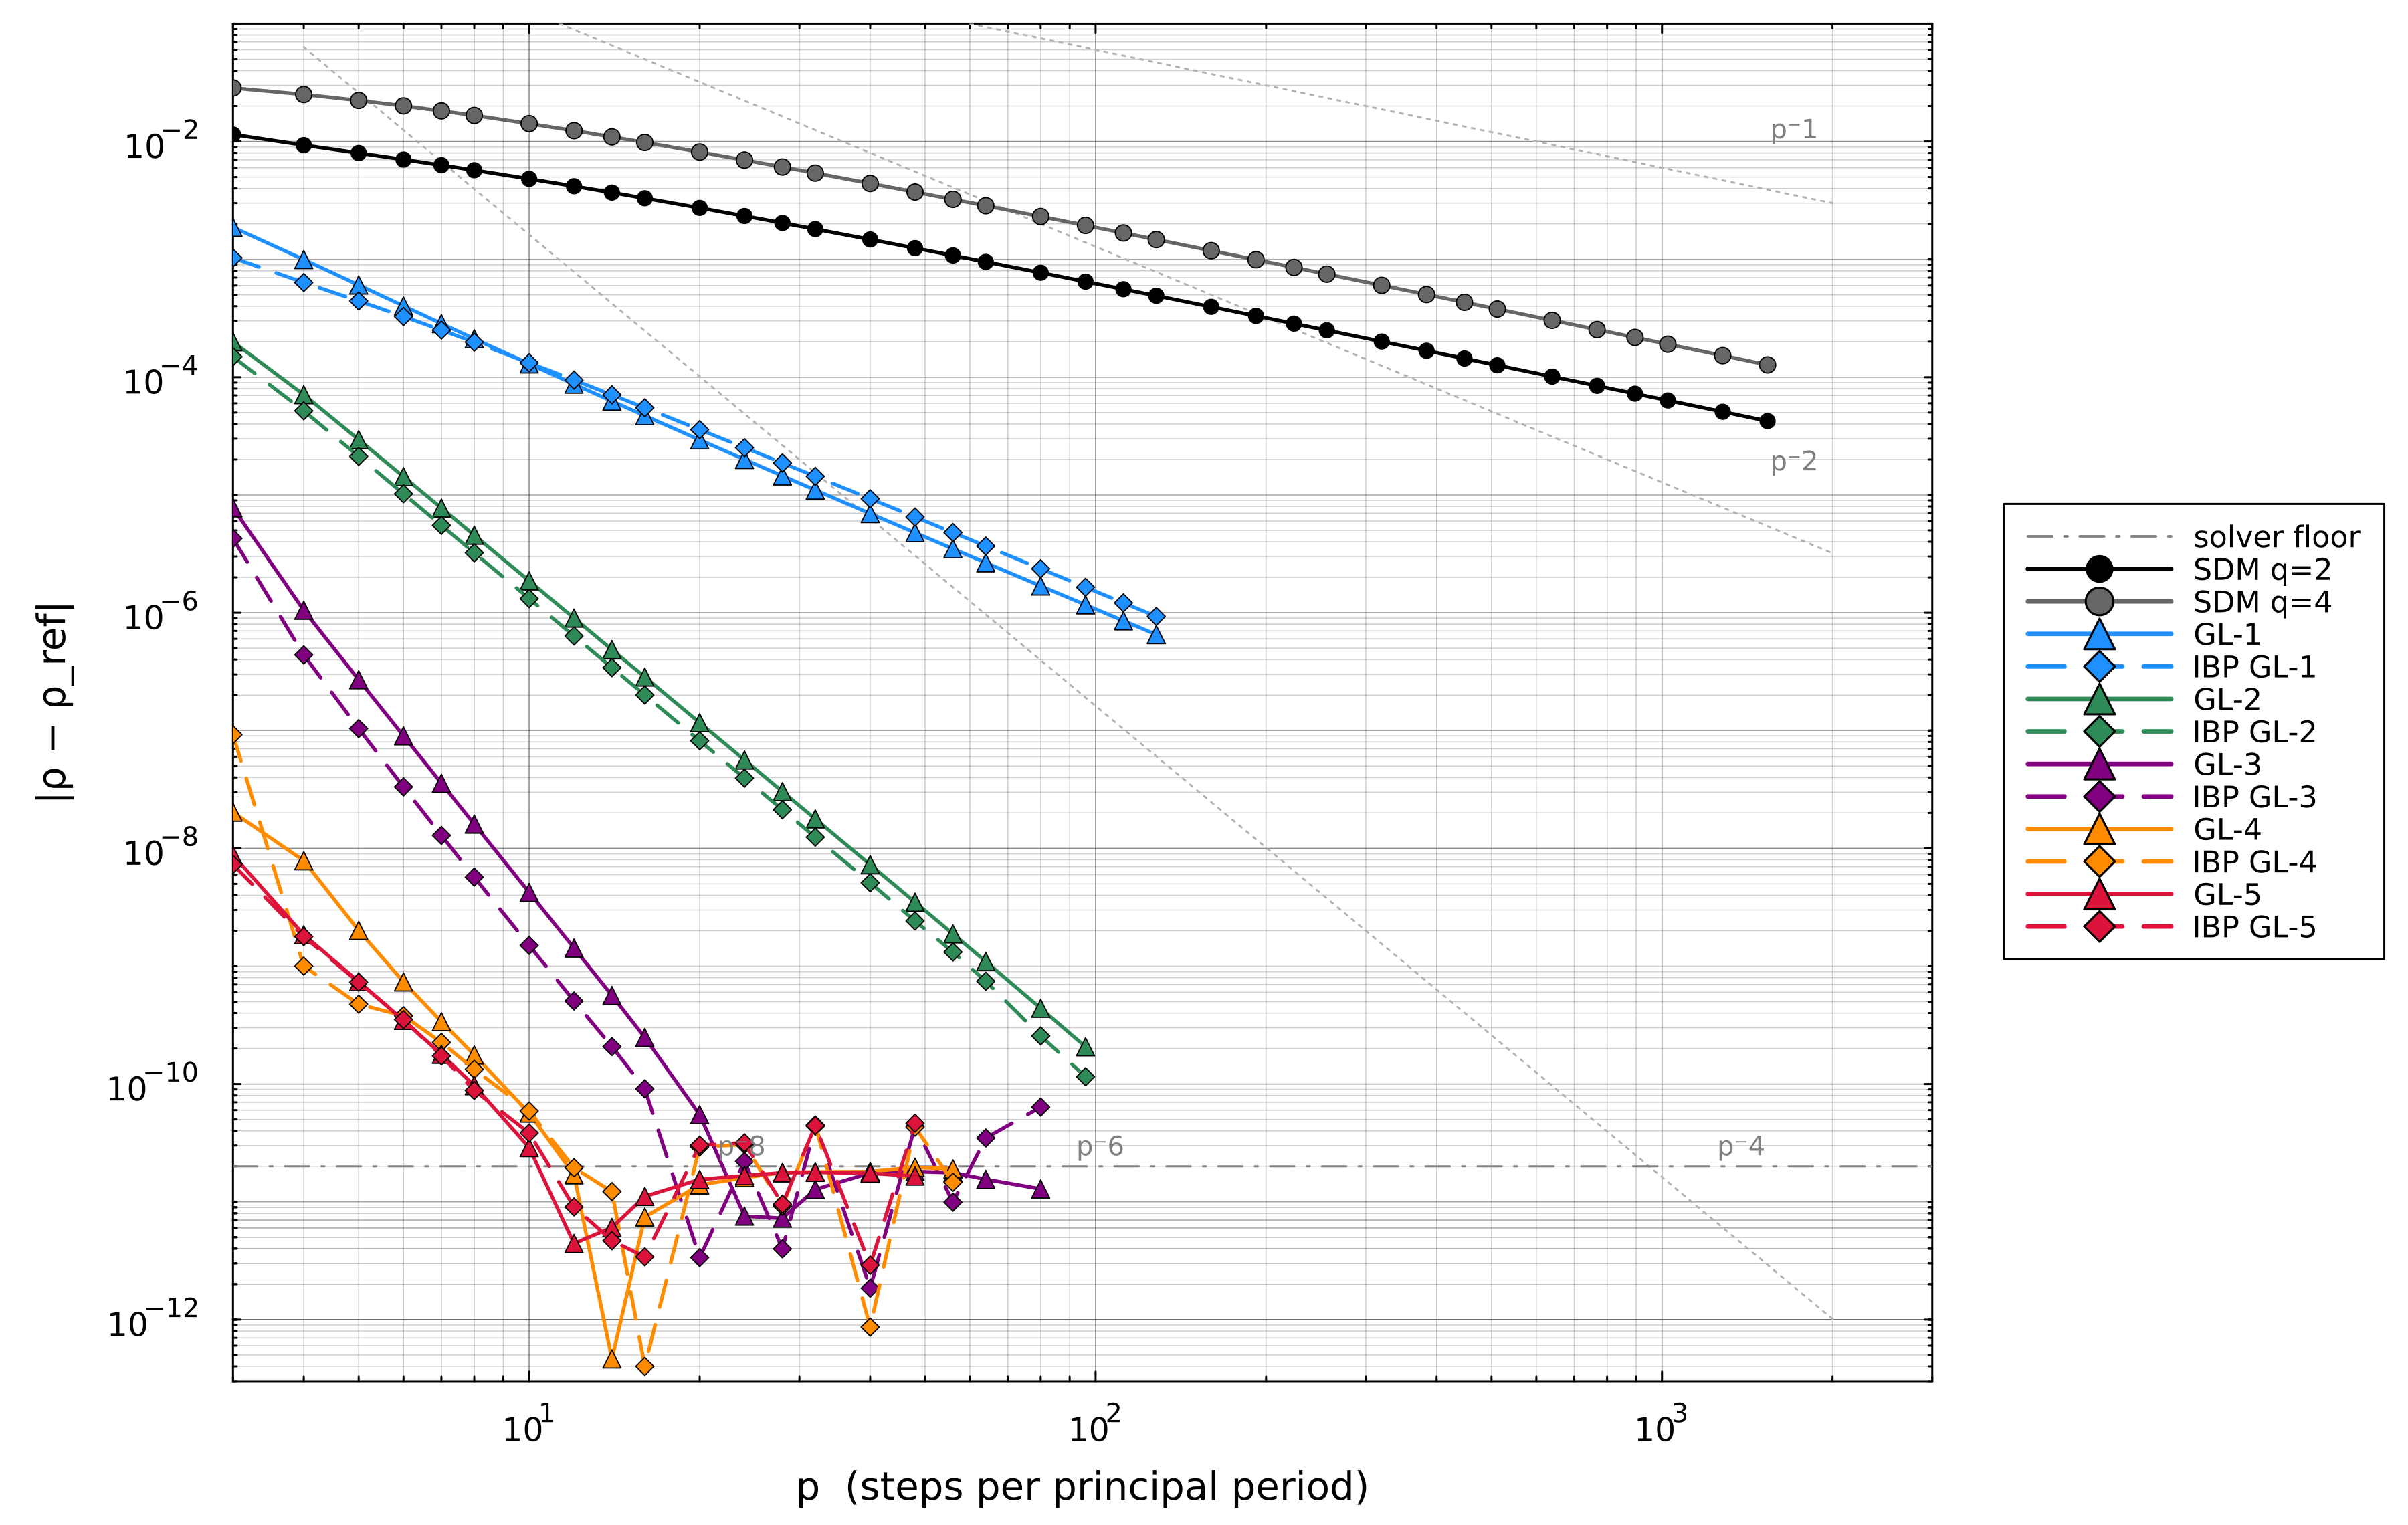
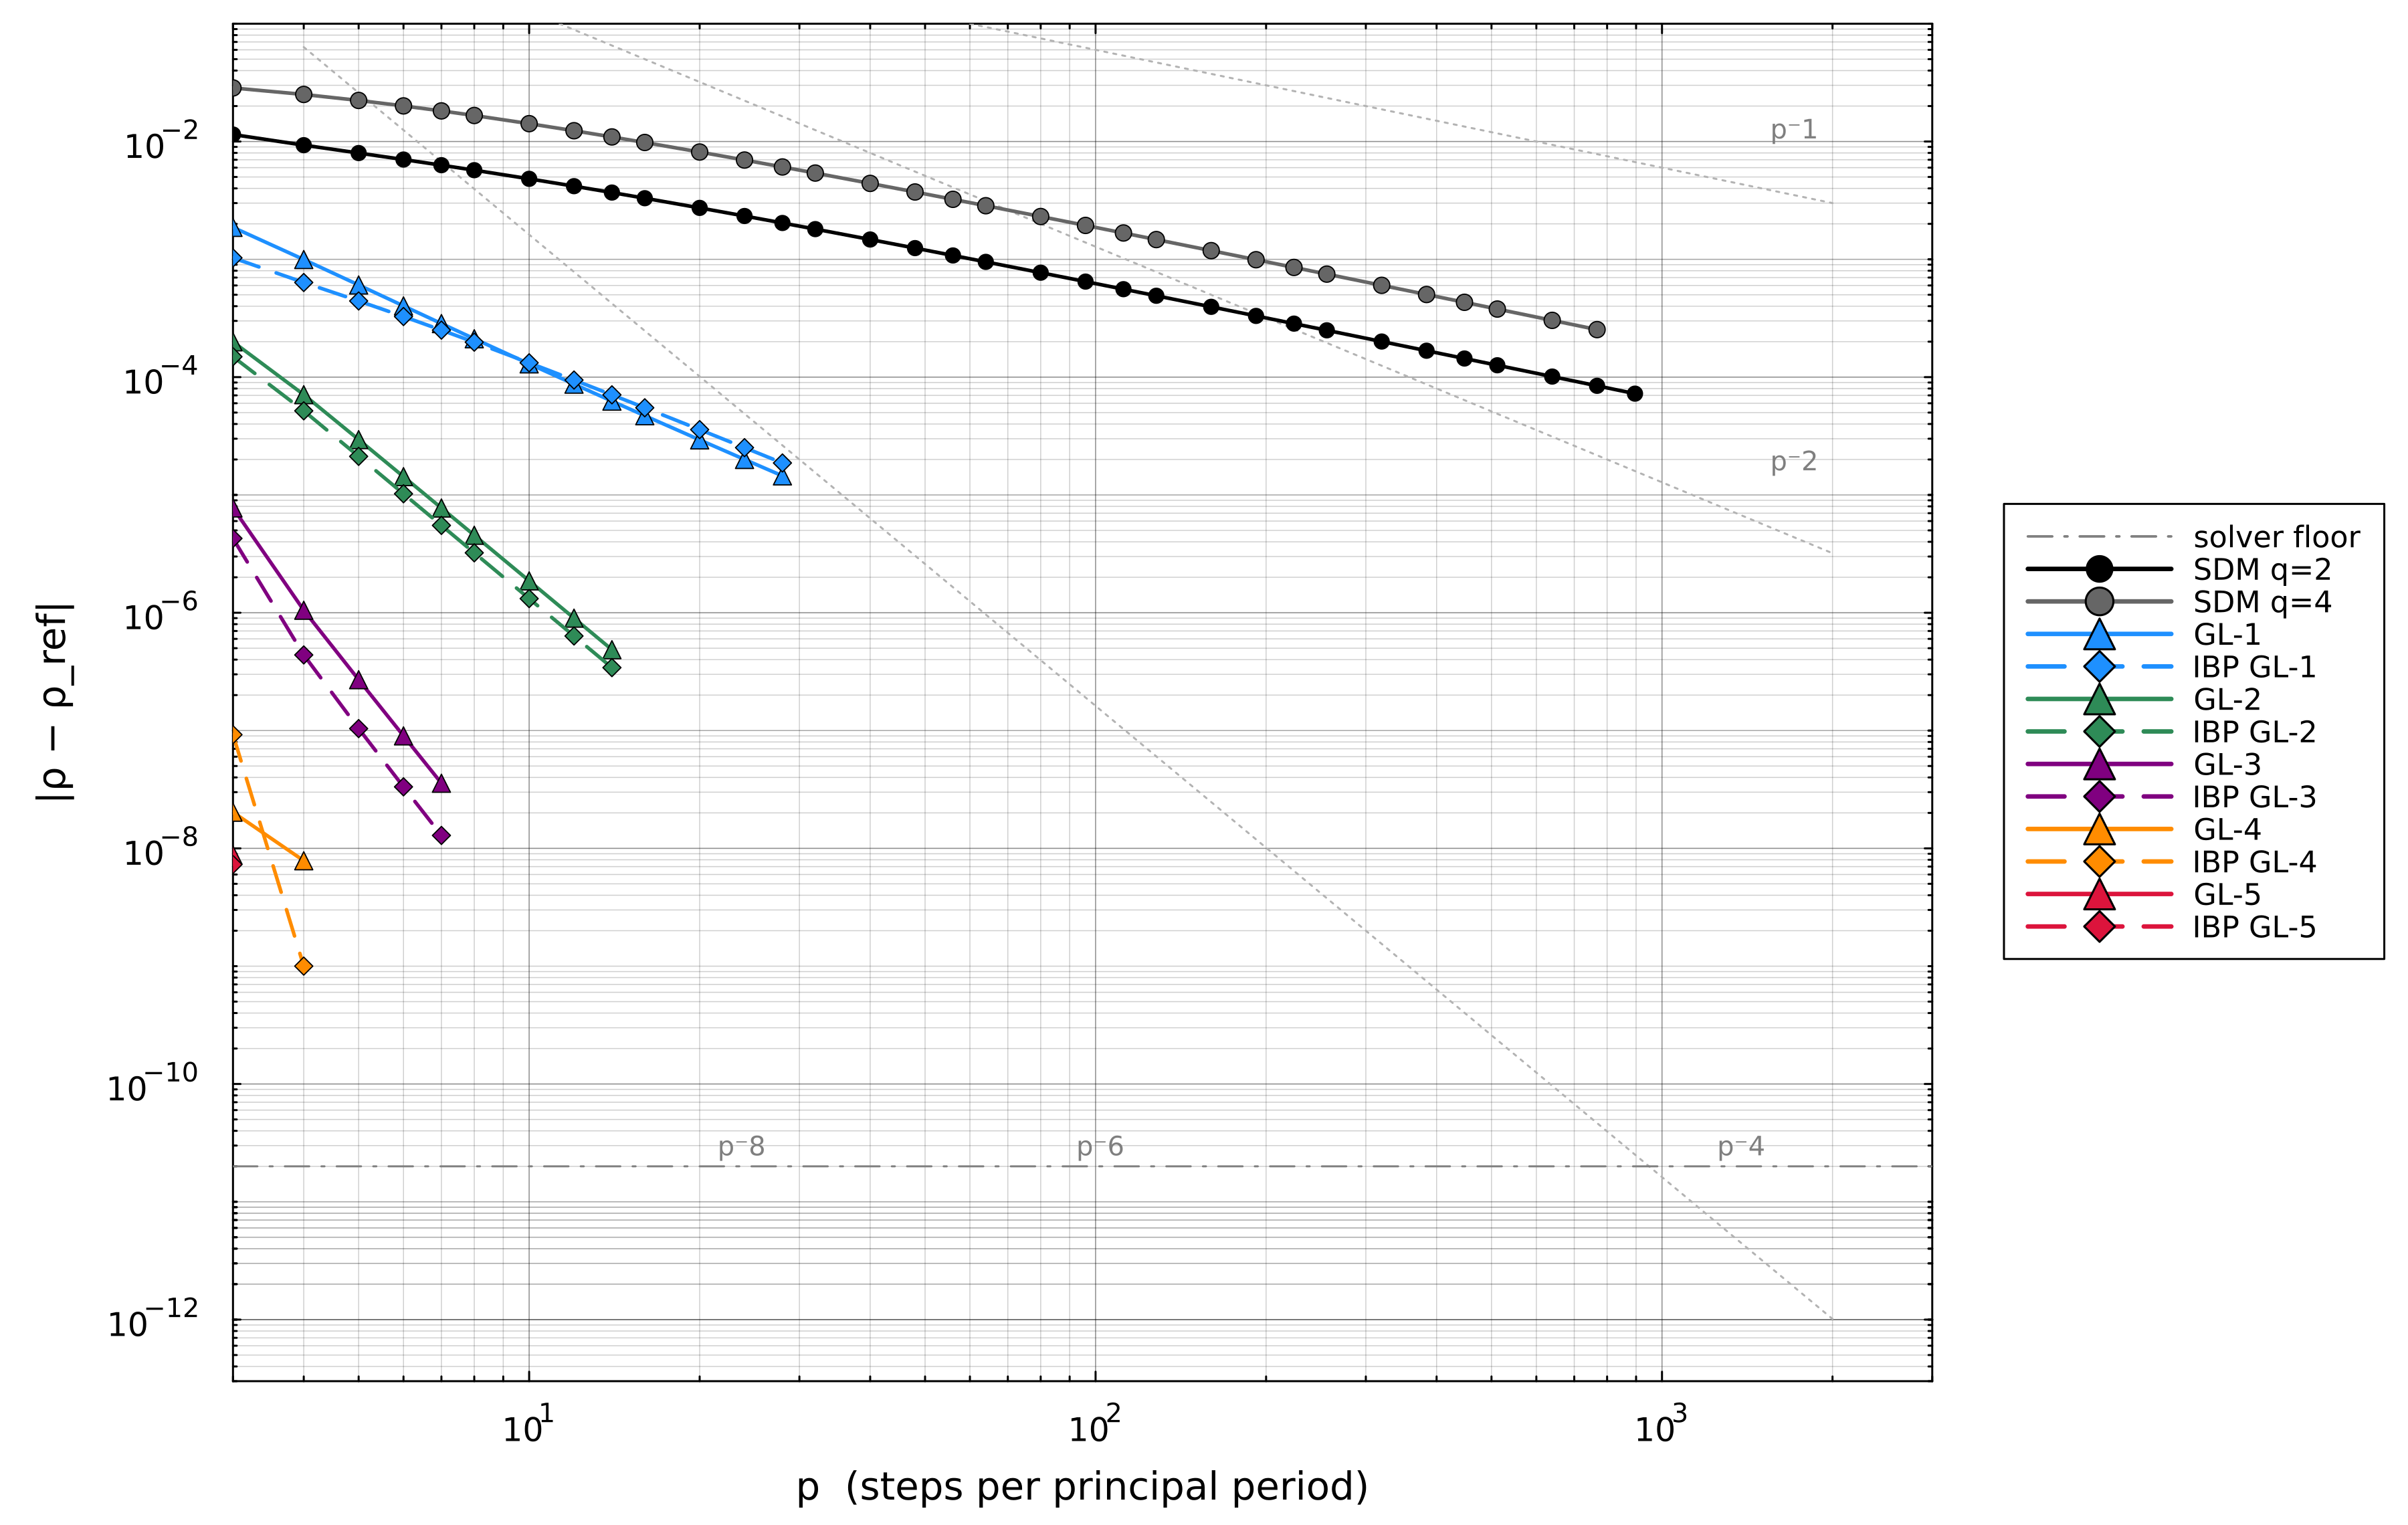
paper: re-time all CPU figures/tables with the round-2 solver (clean BenchmarkTools, to 1 s)
Work-precision / timing figures (grand_triple, grand_orders_pub, grand_stored):
regenerated with all 12 methods (SDM q=2/4, GL1-5 direct + IBP), BenchmarkTools
minima instead of @user (removes the timing jitter), and a ~1 s CPU cap per
method — grand_triple's CPU-time axis now reflects the round-2 solver. Every
accuracy value is bit-identical, so the measured slopes are unchanged.

tab:kron_scaling: factored solves re-timed from the round-2 factored_vs_dense.csv
(1.42→0.19, 3.34→1.13, 2.14→1.78, 8.48→6.43, 37.1→27.3, 218.6→208.7 s).

tab:ssv_cost: the three MF layers re-timed on 56 threads with the round-2 solver
(variance color map 2400→1673 s; SSV rho(H) 1751→652 s; SSV Var 1616→946 s; point
counts unchanged). Deterministic SD (LR) layers kept — that solver is untouched by
round-2 and cs_det reproduces (4193 pts / 36 s vs the table's 39 s).

wp_ultra caption: MF at p=192 now 0.045 s / 39 MB (was 0.30 s / 61 MB), so the
explicit-product advantage grows to 8.5e3 in time and 1.0e4 in allocation (was
1.3e3 / 6.3e3); at p=1024 the step recursion is 507 s vs 1.3 s for MF.

Benchmark-environment note: Julia 1.11 -> 1.12.6 (the machine of this re-timing).
Recompiled PDF; both cost tables still fit via \resizebox. gpu_chain still blocked
on a working GPU.

diff --git a/journal_paper/main_MFSSD.tex b/journal_paper/main_MFSSD.tex
@@ -239,19 +239,19 @@ The factored form \eqref{eq:factored_apply} and the pre-contracted tensor \eqref
 
 \begin{table}[ht!]
 \centering
-\caption{Measured wall-clock times of the second-moment spectral-radius computation for the periodic, delayed, stochastically excited oscillator chain ($\tau = T/2$, so the delay spans $r = p/2$ steps; the circular buffer of the implementation retains the $r{+}1$ history blocks plus one write slot, hence $D = \frac12 d(r{+}2)\big(d(r{+}2){+}1\big)$; $p$ = steps per period; It\^o-isometry quadrature $K=20$). ``Dense'' = classical pre-contracted operator (coefficient assembly + Krylov solve); ``factored'' = Kronecker-factored operator (assembly negligible). Agreement of $\rho(\mathcal{H})$ between the two forms is $\le 5\times10^{-15}$ wherever both run. (Xeon Gold 6154, single-threaded solve, Julia 1.11.)}
+\caption{Measured wall-clock times of the second-moment spectral-radius computation for the periodic, delayed, stochastically excited oscillator chain ($\tau = T/2$, so the delay spans $r = p/2$ steps; the circular buffer of the implementation retains the $r{+}1$ history blocks plus one write slot, hence $D = \frac12 d(r{+}2)\big(d(r{+}2){+}1\big)$; $p$ = steps per period; It\^o-isometry quadrature $K=20$). ``Dense'' = classical pre-contracted operator (coefficient assembly + Krylov solve); ``factored'' = Kronecker-factored operator (assembly negligible). Agreement of $\rho(\mathcal{H})$ between the two forms is $\le 5\times10^{-15}$ wherever both run. (Xeon Gold 6154, single-threaded solve, Julia 1.12.6.)}
 \label{tab:kron_scaling}
 \resizebox{\textwidth}{!}{%
 \begin{tabular}{rrrrrr}
 \toprule
 DOF & $d$ & $p$ & $D=\dim \operatorname{vech} \mathbf{M}$ & dense (build+solve) [s] & factored solve [s] \\
 \midrule
-2   & 4   & 256 & $1.4\times10^{5}$ & $0.34 + 0.62$ & $1.42$ \\
-4   & 8   & 256 & $5.4\times10^{5}$ & $6.04 + 2.60$ & $3.34$ \\
-10  & 20  & 64  & $2.3\times10^{5}$ & --- & $2.14$ \\
-20  & 40  & 64  & $9.3\times10^{5}$ & --- & $8.48$ \\
-50  & 100 & 32  & $1.6\times10^{6}$ & --- & $37.1$ \\
-100 & 200 & 24  & $3.9\times10^{6}$ & --- & $218.6$ \\
+2   & 4   & 256 & $1.4\times10^{5}$ & $0.62 + 0.20$ & $0.19$ \\
+4   & 8   & 256 & $5.4\times10^{5}$ & $6.51 + 0.97$ & $1.13$ \\
+10  & 20  & 64  & $2.3\times10^{5}$ & --- & $1.78$ \\
+20  & 40  & 64  & $9.3\times10^{5}$ & --- & $6.43$ \\
+50  & 100 & 32  & $1.6\times10^{6}$ & --- & $27.3$ \\
+100 & 200 & 24  & $3.9\times10^{6}$ & --- & $208.7$ \\
 \bottomrule
 \end{tabular}%
 }
@@ -332,7 +332,7 @@ i.e.\ the multiplicative noise perturbs the full restoring force with relative i
 \end{figure}
 
 \subsection{Work-Precision and Memory Scaling}
-The scaling claim of Section \ref{sec:mf_algo} is verified directly by evaluating the \emph{same} discrete operator along both routes: the classical path assembles the explicit period product of Eq.~\eqref{eq:period_product} (sparse single-step factors, explicitly multiplied into a densifying accumulator) and calls a sparse eigensolver on the result, while the MF path evaluates only operator actions inside the Krylov iteration. Figure~\ref{fig:wp_ultra} reports wall-clock time, memory, and accuracy on the fully time-periodic stochastic delayed Mathieu benchmark (all coefficients $T$-periodic, present and delayed multiplicative noise; $q=2$; single-threaded, one BLAS thread; timings are minima over repeated runs after JIT warm-up; all CPU results in this paper were obtained on a dual-socket Intel Xeon Gold 6154 workstation ($2\times18$ cores, $3.0\,\mathrm{GHz}$, $192\,\mathrm{GB}$ RAM), Julia 1.11, KrylovKit with Krylov dimension 15; single-core unless a thread count is stated). The memory metric is the \emph{cumulative solver allocation} reported by the runtime --- a robust, reproducible proxy that upper-bounds the peak working set; the peak footprint itself scales as $\mathcal{O}(p^4)$ for the explicit product (one densifying $D\times D$ accumulator) versus $\mathcal{O}(p^2)$ for MF. Panel (c) confirms that the two routes are algebraically identical --- the error curves coincide point-by-point --- so the comparison isolates pure implementation cost. The classical route follows the predicted $\mathcal{O}(p^4)$ growth in time (the cumulative allocation grows one power faster, $\mathcal{O}(p^5)$, since $p$ products of $\mathcal{O}(p^4)$ objects are formed): at $p = 192$ it requires $384\,\mathrm{s}$ and allocates $386\,\mathrm{GB}$ cumulatively, against $0.30\,\mathrm{s}$ and $61\,\mathrm{MB}$ for the multiplication-free route --- a measured factor of $1.3\times10^{3}$ in time and $6.3\times10^{3}$ in allocation --- and becomes infeasible shortly above this resolution. The MF route continues along its $\mathcal{O}(p^2)$ trend to $p = 2048$ (and to $p = 4096$ in the GPU experiments of Appendix~\ref{app:gpu}) on the same machine. Figure~\ref{fig:wp_ultra} also includes the natural \emph{intermediate} classical formulation --- the sparse single-step recursion applied $p$ times per operator action, with the covariance copied at each step, which avoids the explicit product without any of the new machinery --- whose $\mathcal{O}(p^3)$ per-application cost is confirmed by the data: at $p = 1024$ it takes $470\,\mathrm{s}$ against $15\,\mathrm{s}$ for MF, an advantage of one power of $p$ that keeps growing with resolution. The Arnoldi eigensolve (KrylovKit, Krylov dimension 15, relative tolerance $10^{-12}$, no restart needed) converges within a single Krylov factorization --- $15$ operator applications --- for \emph{every} $p$ and every method in the sweep (identical operators, identical spectra), so the per-application cost governs the end-to-end scaling in all cases. The dominant eigenvalue of $\mathcal{H}$ is real and positive in all our experiments, as expected for a map that preserves the cone of positive-semidefinite matrices; no preconditioning is used anywhere in this paper.
+The scaling claim of Section \ref{sec:mf_algo} is verified directly by evaluating the \emph{same} discrete operator along both routes: the classical path assembles the explicit period product of Eq.~\eqref{eq:period_product} (sparse single-step factors, explicitly multiplied into a densifying accumulator) and calls a sparse eigensolver on the result, while the MF path evaluates only operator actions inside the Krylov iteration. Figure~\ref{fig:wp_ultra} reports wall-clock time, memory, and accuracy on the fully time-periodic stochastic delayed Mathieu benchmark (all coefficients $T$-periodic, present and delayed multiplicative noise; $q=2$; single-threaded, one BLAS thread; timings are minima over repeated runs after JIT warm-up; all CPU results in this paper were obtained on a dual-socket Intel Xeon Gold 6154 workstation ($2\times18$ cores, $3.0\,\mathrm{GHz}$, $192\,\mathrm{GB}$ RAM), Julia 1.12.6, KrylovKit with Krylov dimension 15; single-core unless a thread count is stated). The memory metric is the \emph{cumulative solver allocation} reported by the runtime --- a robust, reproducible proxy that upper-bounds the peak working set; the peak footprint itself scales as $\mathcal{O}(p^4)$ for the explicit product (one densifying $D\times D$ accumulator) versus $\mathcal{O}(p^2)$ for MF. Panel (c) confirms that the two routes are algebraically identical --- the error curves coincide point-by-point --- so the comparison isolates pure implementation cost. The classical route follows the predicted $\mathcal{O}(p^4)$ growth in time (the cumulative allocation grows one power faster, $\mathcal{O}(p^5)$, since $p$ products of $\mathcal{O}(p^4)$ objects are formed): at $p = 192$ it requires $384\,\mathrm{s}$ and allocates $386\,\mathrm{GB}$ cumulatively, against $0.045\,\mathrm{s}$ and $39\,\mathrm{MB}$ for the multiplication-free route --- a measured factor of $8.5\times10^{3}$ in time and $1.0\times10^{4}$ in allocation --- and becomes infeasible shortly above this resolution. The MF route continues along its $\mathcal{O}(p^2)$ trend to $p = 2048$ (and to $p = 4096$ in the GPU experiments of Appendix~\ref{app:gpu}) on the same machine. Figure~\ref{fig:wp_ultra} also includes the natural \emph{intermediate} classical formulation --- the sparse single-step recursion applied $p$ times per operator action, with the covariance copied at each step, which avoids the explicit product without any of the new machinery --- whose $\mathcal{O}(p^3)$ per-application cost is confirmed by the data: at $p = 1024$ it takes $507\,\mathrm{s}$ against $1.3\,\mathrm{s}$ for MF, an advantage of one power of $p$ that keeps growing with resolution. The Arnoldi eigensolve (KrylovKit, Krylov dimension 15, relative tolerance $10^{-12}$, no restart needed) converges within a single Krylov factorization --- $15$ operator applications --- for \emph{every} $p$ and every method in the sweep (identical operators, identical spectra), so the per-application cost governs the end-to-end scaling in all cases. The dominant eigenvalue of $\mathcal{H}$ is real and positive in all our experiments, as expected for a map that preserves the cone of positive-semidefinite matrices; no preconditioning is used anywhere in this paper.
 
 \begin{figure}[ht!]
     \centering
@@ -409,7 +409,7 @@ where $w$ is the dimensionless depth of cut (proportional to $a_p K_t$ over the 
 with the screen function $g = 1$ while the tooth is in cut and $0$ otherwise. Up-milling is considered with the cut spanning exactly one quarter of the tooth-passing period: $\varphi_{\mathrm{en}} = 0$, $\varphi_{\mathrm{ex}} = \pi/4$ per tooth (the radial immersion $a_D = (1-\cos\varphi_{\mathrm{ex}})/2 \approx 0.146$ follows). The $(1,1)$ entry of $\mathbf{H}$ is the familiar single-DOF directional factor; the off-diagonal entries carry the $x$--$y$ cross-coupling that shapes milling stability in practice. Note that the tooth position $\varphi_j$ advances with the \emph{integral} of the modulated speed, and that the entry/exit discontinuities of $g$ drift relative to the time grid under SSV, so no mesh alignment is possible (or claimed) at these switching instants. The spindle speed is modulated sinusoidally, $\Omega(t) = \Omega_0\big(1 + \mathrm{RVA}\sin(2\pi t/T_{\mathrm{SSV}})\big)$ with $\mathrm{RVA} = 0.25$; the modulation period is $T_{\mathrm{SSV}} = N_{\mathrm{rev}} \cdot 2\pi/\Omega_0$ with $N_{\mathrm{rev}} = 10$ nominal revolutions --- a practically realistic, slow modulation --- and $T_{\mathrm{SSV}}$ is the principal period of the Floquet analysis. For the regenerative delay we use the instantaneous approximation $\tau(t) = (2\pi/z)/\Omega(t)$, which deviates from the exact implicit delay ($\int_{t-\tau}^{t}\Omega\,\mathrm{d}s = 2\pi/z$) at $\mathcal{O}(\mathrm{RVA})$ within one tooth pass --- a standard modeling choice at moderate modulation amplitudes \cite{Long2007, Seguy2010}; the implementation accepts a function-valued delay, discretizes the delayed read at the step-wise rounded delay $r(t_n) = \operatorname{round}(\tau(t_n)/\Delta t)$ within a buffer sized by $\tau_{\max} = (2\pi/z)/(\Omega_0(1-\mathrm{RVA}))$, and retains the nominal order of the underlying scheme at fixed $\mathrm{RVA}$. The multiplicative noise perturbs the cutting-force coefficient itself ($\sigma_c = 0.2$, at the upper end of the relative force scatter identified in turning experiments \cite{Fodor2020, Fodor2024_PSD}), hence it reads both the present and the delayed tool positions in both directions ($\boldsymbol\beta \ne 0$: the automatic pruning of Section \ref{sec:pruning} correctly stays inactive), and a weak additive source ($\sigma_a = 0.1$, acting in the feed direction) represents broadband force noise; the noise is interpreted in the It\^o sense, and a Stratonovich reading of the physical noise would shift the drift by the correction of Section \ref{sec:theory}, displacing the computed boundaries accordingly. The damping ratio is $\zeta = 0.02$ and the classical scheme with $q = 2$ is used.
 
 \paragraph{Discretization and computational cost.}
-The time step resolves both the delay and the structural dynamics, $\Delta t = \min\!\big(\tau_{\max}/24,\; 2\pi/30\big)$ (at least $24$ steps across the longest delay and $30$ steps per natural period), so the number of steps per principal period varies from $360$ for $\Omega_0 \gtrsim 0.83$ (where the delay is the finer scale) to $2400$ at $\Omega_0 = 0.125$ (where $T_{\mathrm{SSV}} = 503$ time units and the natural period sets the step). The variance color map --- a $96\times64$ grid, logarithmically spaced in $\Omega_0$; the $w=0$ row is known in closed form, and every remaining point is a four-dimensional ($d=4$) stochastic moment problem with stationary variance --- completes in $2400\,\mathrm{s}$ on $56$ threads of the workstation specified in Section~\ref{sec:results} (Table~\ref{tab:ssv_cost}; the expensive low-$\Omega_0$ columns limit the thread scaling). This configuration is accessible to the multiplication-free evaluation only: at $p = 2400$ steps per period the explicit period product of Eq.~\eqref{eq:period_product} is slower by many orders of magnitude and effectively infeasible (cf.\ Fig.~\ref{fig:wp_ultra}, where it already takes $384\,\mathrm{s}$ and $386\,\mathrm{GB}$ of allocation for a \emph{single} point at $p=192$). As a consistency gate, with the noise switched off the second-moment spectral radius reproduces the squared deterministic Floquet multiplier computed by the independent deterministic semi-discretization package on the same time-varying-delay model class to the discretization accuracy (checked on the single-axis configuration: $2\times10^{-5}$ relative at $r=32$).
+The time step resolves both the delay and the structural dynamics, $\Delta t = \min\!\big(\tau_{\max}/24,\; 2\pi/30\big)$ (at least $24$ steps across the longest delay and $30$ steps per natural period), so the number of steps per principal period varies from $360$ for $\Omega_0 \gtrsim 0.83$ (where the delay is the finer scale) to $2400$ at $\Omega_0 = 0.125$ (where $T_{\mathrm{SSV}} = 503$ time units and the natural period sets the step). The variance color map --- a $96\times64$ grid, logarithmically spaced in $\Omega_0$; the $w=0$ row is known in closed form, and every remaining point is a four-dimensional ($d=4$) stochastic moment problem with stationary variance --- completes in $1673\,\mathrm{s}$ on $56$ threads of the workstation specified in Section~\ref{sec:results} (Table~\ref{tab:ssv_cost}; the expensive low-$\Omega_0$ columns limit the thread scaling). This configuration is accessible to the multiplication-free evaluation only: at $p = 2400$ steps per period the explicit period product of Eq.~\eqref{eq:period_product} is slower by many orders of magnitude and effectively infeasible (cf.\ Fig.~\ref{fig:wp_ultra}, where it already takes $384\,\mathrm{s}$ and $386\,\mathrm{GB}$ of allocation for a \emph{single} point at $p=192$). As a consistency gate, with the noise switched off the second-moment spectral radius reproduces the squared deterministic Floquet multiplier computed by the independent deterministic semi-discretization package on the same time-varying-delay model class to the discretization accuracy (checked on the single-axis configuration: $2\times10^{-5}$ relative at $r=32$).
 
 The engineering deliverables of Fig.~\ref{fig:ssv} are computed over $\Omega_0 \in [0.125, 1.5]$ (logarithmic speed axis) and $w \in [0, 4]$ with a division of labor that reflects the cost hierarchy of the underlying problems. The variance color map and the two \emph{stochastic} boundaries (the second-moment limit $\rho(\mathcal{H})=1$ and the quality limit $\operatorname{Var}(x)=0.25$) require the factored MF solver of this paper. The two \emph{deterministic} boundaries need only the first-moment monodromy $\rho(\boldsymbol\Phi)$, which the deterministic semi-discretization package \cite{BachrathySDMjl} evaluates through a sparse left/right mapping pair and a matrix-free Krylov eigensolve --- three orders of magnitude cheaper per point, so both deterministic curves are essentially free (Table~\ref{tab:ssv_cost}). All four boundary curves are located by the Multi-Dimensional Bisection Method \cite{Bachrathy2021} on initial grids log-spaced in $\Omega_0$, in a two-phase pattern: a zeroth-order bracketing search over $k$ halving refinements, followed by a single linear-interpolation pass over the final bracketing cubes. After $k$ refinements an $n_1\times n_2$ initial grid resolves the boundary as a uniform grid of $\big((n_1{-}1)2^k{+}1\big)\times\big((n_2{-}1)2^k{+}1\big)$ would, while evaluations are spent only along the boundary --- MDBM pays for boundary \emph{length} where the brute-force map pays for \emph{area}. The deterministic curves at $577\times705$-equivalent resolution resolve fine lobe sub-structure of the modulated system that is invisible at the $96\times64$ resolution of the color map. The practically decisive boundary is the \emph{surface-quality limit} $\operatorname{Var}(x) = 0.25$.
 
@@ -423,11 +423,11 @@ The engineering deliverables of Fig.~\ref{fig:ssv} are computed over $\Omega_0 \
 \toprule
 layer & solver & initial grid / refinements & equivalent resolution & points & time [s] \\
 \midrule
-variance color map & MF-SSDM ($\rho$ + fixpoint) & $96\times64$ (full sweep) & $96\times64$ & $6048$ & $2400$ \\
+variance color map & MF-SSDM ($\rho$ + fixpoint) & $96\times64$ (full sweep) & $96\times64$ & $6048$ & $1673$ \\
 (1) const.\ speed, det. & deterministic SD (LR) & $10\times12$ / $6$ & $577\times705$ & $4193$ & $39$ \\
 (2) SSV, det.\ $\rho(\boldsymbol\Phi)=1$ & deterministic SD (LR) & $10\times12$ / $6$ & $577\times705$ & $8395$ & $1025$ \\
-(3) SSV, $\rho(\mathcal{H})=1$ & MF-SSDM & $10\times6$ / $5$ & $289\times161$ & $846$ & $1751$ \\
-(4) SSV, $\operatorname{Var}(x)=0.25$ & MF-SSDM (fixpoint) & $10\times6$ / $5$ & $289\times161$ & $629$ & $1616$ \\
+(3) SSV, $\rho(\mathcal{H})=1$ & MF-SSDM & $10\times6$ / $5$ & $289\times161$ & $846$ & $652$ \\
+(4) SSV, $\operatorname{Var}(x)=0.25$ & MF-SSDM (fixpoint) & $10\times6$ / $5$ & $289\times161$ & $629$ & $946$ \\
 \bottomrule
 \end{tabular}%
 }

diff --git a/journal_paper/FIGURES_STATUS.md b/journal_paper/FIGURES_STATUS.md
@@ -9,13 +9,24 @@ accuracy/convergence figures are unaffected.
 |---|---|---|
 | `fig1_sykora_fig4_repro` | accuracy (Fig. 1 reproduction) | current — values unchanged |
 | `pd_mathieu_orders` | convergence orders | current — values unchanged |
-| `grand_orders_pub`, `grand_stored`, `grand_triple` | grand convergence diagram | current — values unchanged |
+| `grand_orders_pub`, `grand_stored`, `grand_triple` | grand convergence diagram | **RE-TIMED** — regenerated with clean BenchmarkTools minima and a ~1 s CPU cap per method (`grand_triple`'s CPU-time axis now reflects the round-2 solver; SDM q=2/q=4 curves reach higher `p`). Every accuracy value is bit-identical, so the measured slopes (0.99 for SDM at any `q`; 2/4/6/… for GL-`S`) are unchanged. |
 | `beam_mesh_convergence` | modal convergence | current — values unchanged |
 | `ssv_chart` | 2-DOF SSV milling chart | current — values unchanged |
 | `wp_ultra` | work-precision (timing) | **UPDATED** to the round-2 code (the multiplication-free curve is now ~10–22× faster from the StaticArrays small-`d` fast path + eager Krylov; the explicit-product and step-recursion curves are unchanged, so the MF advantage grows) |
 | `gpu_chain_scaling` | CPU-vs-GPU scaling (timing) | **STALE — needs regenerating on a working GPU.** Its data CSV predates the speedups, so the CPU side is the old (slow) timing; the P4000 CUDA round-trip fails on the dev machine (toolkit too new for Pascal). Regenerate `benchmark_cpu_gpu.jl` / `benchmark_chain_dof.jl` on a working GPU, then `plot_chain_gpu_pub.jl`. |
 
-**Action for the camera-ready:** re-check any `wp_ultra`-related sentence on
-Overleaf against the refreshed figure (the qualitative claim — MF cost grows far
+**Text / tables updated to match (round-2 re-timing pass):**
+- `wp_ultra` caption CPU numbers refreshed to the round-2 MF timings: at `p=192`
+  MF is now `0.045 s / 39 MB` (was `0.30 s / 61 MB`), so the explicit-product
+  advantage grows to `8.5×10³` in time and `1.0×10⁴` in allocation (was `1.3×10³`
+  / `6.3×10³`); at `p=1024` the step-recursion is `507 s` vs `1.3 s` for MF.
+- `tab:kron_scaling` (factored-vs-dense chain) re-timed from `factored_vs_dense.csv`:
+  factored solves 1.42→0.19, 3.34→1.13, 2.14→1.78, 8.48→6.43, 37.1→27.3, 218.6→208.7 s.
+- `tab:ssv_cost` MF layers (variance color map + the two MF boundary curves) re-timed
+  on 56 threads with the round-2 solver; deterministic SD (LR) layers are unchanged
+  (that solver was not touched by round-2; `cs_det` reproduces to 4193 pts / 36 s).
+- Benchmark-environment note changed to Julia 1.12.6 (the machine of this re-timing pass).
+
+**Action for the camera-ready:** the qualitative `wp_ultra` claim — MF cost grows far
 slower than the explicit product, and the gap widens with `p` — still holds and is
-now stronger). Regenerate `gpu_chain_scaling` once a GPU is available.
+now stronger. Regenerate `gpu_chain_scaling` once a GPU is available.